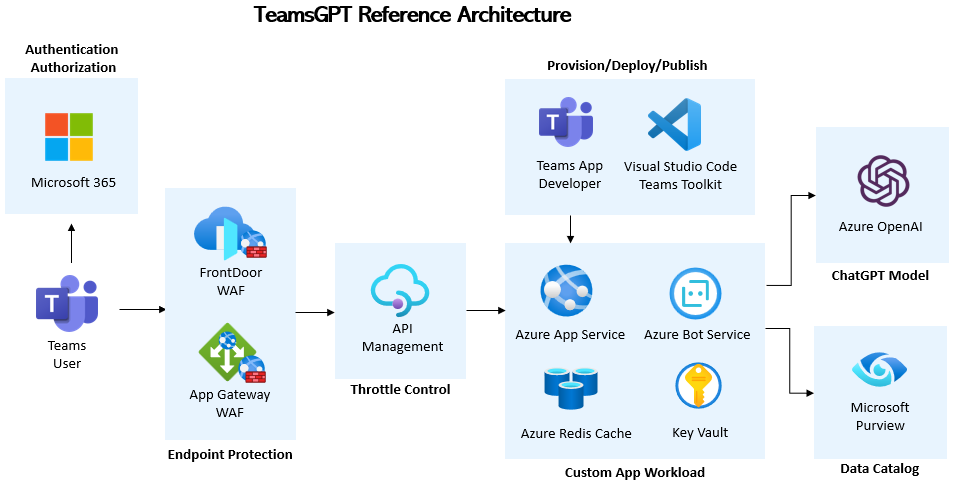
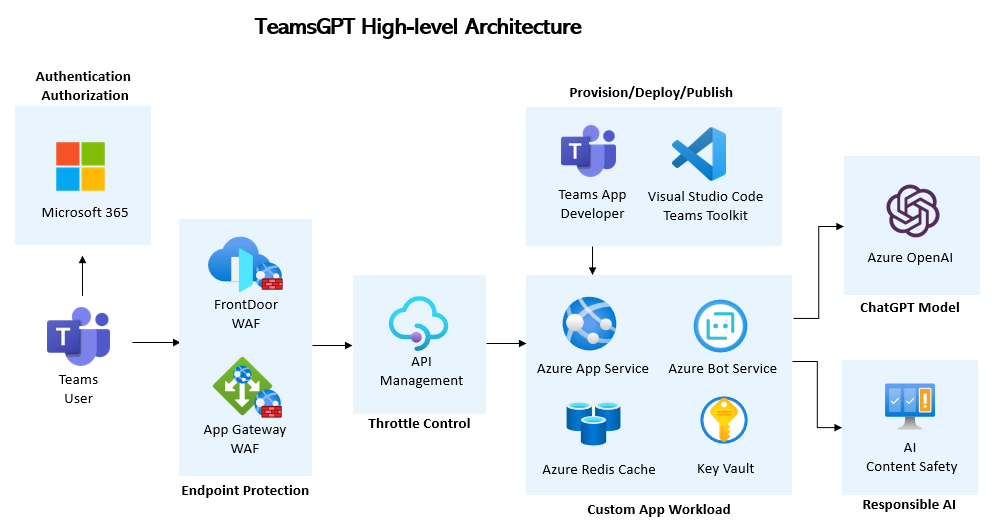
update AI Content Safety

diff --git a/bot-sso/teamsBot.ts b/bot-sso/teamsBot.ts
@@ -74,9 +74,9 @@ export class TeamsBot extends TeamsActivityHandler {
         const completion = await this.openAiApi.createChatCompletion({
           model: process.env.AOAI_MODEL,
           messages: revisedprompt,
-          temperature: parseInt(process.env.CHATFPT_TEMPERATURE),
+          temperature: parseFloat(process.env.CHATFPT_TEMPERATURE),
           max_tokens:parseInt(process.env.CHATGPT_MAXTOKEN),
-          top_p: parseInt(process.env.CHATGPT_TOPP),
+          top_p: parseFloat(process.env.CHATGPT_TOPP),
           stop: process.env.CHATGPT_STOPSEQ
         });
         console.log("createChatCompletion response: " + completion.data.choices[0].message.content);

diff --git a/README.md b/README.md
@@ -265,17 +265,17 @@ If you don't see any .localSettings file, debug once (F5)  will auto generate th
 - If your Proof of Concept/Point of Value runs smoothly, it may be a good idea to set up a production platform for service deployment. Here is the reference architecture.
   - **Public Endpoint Protection:** The Teams client sends messages over the public internet to your App Service. Utilizing FrontDoor or Application Gateway with Web Application Firewall can provide a high SLA to your service, protecting it from DDoS attacks. [DDoS Network Protection with PaaS web application architecture](https://learn.microsoft.com/en-us/azure/ddos-protection/ddos-protection-reference-architectures#ddos-network-protection-with-paas-web-application-architecture)
   - **Throttle Control:** Imagine what would happen if your users became addicted to this service. To protect your backend resources from spamming activities, API Management offers a [Rate limits and quotas policy](https://learn.microsoft.com/en-us/azure/api-management/api-management-sample-flexible-throttling#rate-limits-and-quotas).
-  - **Chat Session:** Every single message sent from Teams client is stateless as well as the ChatGPT model API. Bot framework SDK offers waterfall dialogs to support a stateful conversation flow. Alternatively, using Azure Redis Cache for implementation brings more feasibility and control points to your custom app logic.
+  - **Chat Session:** Every single message sent from Teams client is stateless as well as the ChatGPT model API. Bot framework SDK offers state management to support a stateful conversation flow. Alternatively, using Azure Redis Cache for implementation brings more feasibility and control points to your custom app logic.
   - **Key and Secret Management:** The AOAI resource's KEY, endpoint and model name should not be stored in environmental variables, as this is not the best security practice. Instead, they should be stored in Azure Key Vault for better management of the application secret.
-  - **Sensitive Query Censorship:** The custom app workload pane can be used to perform sensitive data filtering, alert and monitoring and blocking. For example, App Service can query Microsoft Purview data catalog to get the definition of sensitive data, e,g. RegEx to determine if a user query is compliant with enterprise IT policy or not. 
-  - **Networking Security:** By using VNET injection, App Gateway, APIM, App Service, and Redis can be protected within the confines of a VNET. Meanwhile, Purview, Bot service and AOAI can take advantage of VNET integration (privatelink) to ensure greater security compliance.
+  - **Sensitive Query Censorship:** The custom app workload pane can be used to perform sensitive data filtering, alert and monitoring and blocking. AI Content Safety for accurately detect unsafe or inappropriate content and automatically assign severity scores in real time. Enable your business to review and prioritize flagged items and to take informed action. 
+  - **Networking Security:** By using VNET injection, App Gateway, APIM, App Service, and Redis can be protected within the confines of a VNET. Meanwhile, AI Content Safety, Bot service and AOAI can take advantage of VNET integration (privatelink) to ensure greater security compliance.
 
 ## Custom app logic To-Do List
 - AOAI offers a range of GPT models beyond ChatGPT. With these models, we can do more than just chat with a bot - such as summarizing documents, generating product descriptions, which leveraging text-davinci-003 and text-embedding-ada-002
 - To further enhance custom app capabilities, here are some to-do recommendations.
   - Using Adaptive Cards (Teams Toolkit) to add a button for regenerating the user's question with different model parameters.
-  - Besides of using Redis to implement a stateful conversation, you can consider to adopt the out of box capability provided by [Bot Framework SDK](https://learn.microsoft.com/en-us/azure/bot-service/bot-builder-basics?view=azure-bot-service-4.0): [Waterfall dialogs](https://learn.microsoft.com/en-us/azure/bot-service/bot-builder-concept-waterfall-dialogs?view=azure-bot-service-4.0#waterfall-dialogs), which supports stateful complex conversation flow.
-![waterfall](https://learn.microsoft.com/en-us/azure/bot-service/v4sdk/media/bot-builder-dialog-concept.png)  
+  - Besides of using Redis to implement a stateful conversation, you can consider to adopt the out of box capability provided by [Bot Framework SDK](https://learn.microsoft.com/en-us/azure/bot-service/bot-builder-basics?view=azure-bot-service-4.0) which supports stateful complex conversation flow.
+![state](https://learn.microsoft.com/en-us/azure/bot-service/v4sdk/media/bot-builder-state.png)  
   - Add command set to let power user
     - send query with specified model parameters like: max. token, temperature
     - summarizing document or text generation (*text-davinci-003*)
